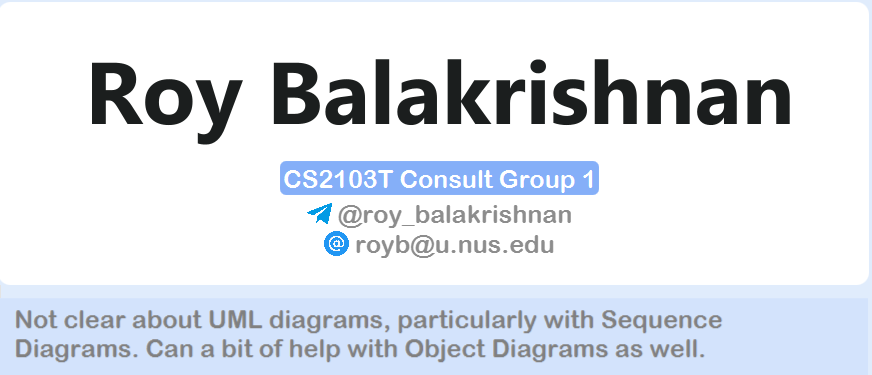
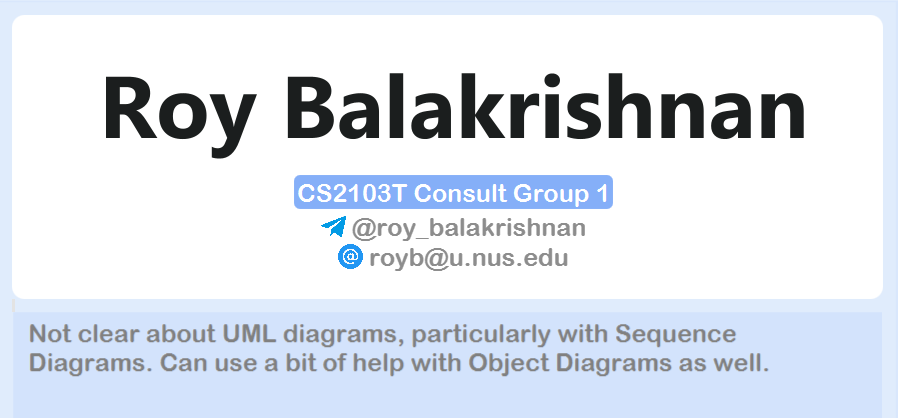
Update UG Typoes, images, and formatting

Changed region(s): [[0.0, 0.0, 1.0, 0.968], [0.0929, 0.1467, 0.9289, 0.3813], [0.4954, 0.1467, 0.5264, 0.176]]

diff --git a/docs/UserGuide.md b/docs/UserGuide.md
@@ -19,9 +19,9 @@ section of the user guide.
 
 ## How to use
 
-This user guide will bring you through how to quickly start using our application through the [Quick Start](#quick-start) section, while also serving as a reference to more experienced users in the [Feature List](#feature-list) section, where notes and tips on how best to make use of our application will also be given.
+This user guide will bring you through **how to quickly start using our application through the [Quick Start](#quick-start) section**, while also serving as a **reference to more experienced users in the [Feature List](#feature-list) section**, where notes and tips on how best to make use of our application will also be given.
 
-If you face any difficult while following the user guide, do refer to the FAQ section to see if your issue has been addressed there. If the solution provided or your query has yet to be answered in the FAQ section, feel free to reach out to our team lead at [e0559779@u.nus.edu](mailto:e0559779@u.nus.edu) through email.
+**If you face any difficult while following the user guide, do refer to the [FAQ section](#faq)** to see if your issue has been addressed there. If the solution provided or your query has yet to be answered in the FAQ section, feel free to reach out to our team lead, Erin Ong, at [e0559779@u.nus.edu](mailto:e0559779@u.nus.edu) through email.
 
 --------------------------------------------------------------------------------------------------------------------
 
@@ -36,7 +36,7 @@ If you face any difficult while following the user guide, do refer to the FAQ se
 4. Double-click the file to start the app. The GUI similar to the below should appear in a few seconds. Note how the app contains some sample data.<br><br>
    ![Ui](images/Ui.png)
 
-5. Type the command in the command box and press Enter to execute it. e.g. typing **`help`** and pressing Enter will open the help window.<br>
+5. Type the command in the command box and press Enter to execute it. e.g. typing **`help`** and pressing Enter will open the help window.<br><br>
    Some example commands you can try:
 
     * **`list`** : Lists all students currently stored.
@@ -73,12 +73,12 @@ Term | Definition
 
 These icons will appear within coloured boxes to indicate
 
-Icon | Meaning | Box colour
---------|------------------|----
-:information_source:**Note**|This icon serves to give an additional note or remark about the current feature|Blue
-:bulb:**Tip**|This icon serves to give a quick recommendation about how to use the feature in the most beneficial way|Blue
-:exclamation:**Caution**|This icon serves to give a note on behaviour of the application that could be unexpected to you|Yellow 
-:warning:**Warning**|This icon serves to warn against using a feature in some unintended manner| Yellow
+&nbsp; &nbsp; &nbsp; Icon &nbsp; &nbsp; &nbsp; | Meaning | Box colour
+------------|------------------|----
+ :information_source:**Note** |This icon serves to give an additional note or remark about the current feature|Blue
+ :bulb:**Tip** |This icon serves to give a quick recommendation about how to use the feature in the most beneficial way|Blue
+ :exclamation:**Caution** |This icon serves to give a note on behaviour of the application that could be unexpected to you|Yellow 
+ :warning:**Warning** |This icon serves to warn against using a feature in some unintended manner| Yellow
 
 
 
@@ -115,7 +115,7 @@ Icon | Meaning | Box colour
 
 #### Viewing help : `help`
 
-Shows a message explaining how to access the user guide.
+Displays a pop-up message explaining how to access the user guide as shown below:
 
 ![help message](images/helpMessage.png)
 
@@ -123,19 +123,19 @@ Format: `help`
 
 #### Clearing all entries : `clear`
 
-Clears all entries from CSBook.
+Clears all students, groups and their associated data from CSBook
 
 Format: `clear`
 
 #### Encrypting the data file: `encrypt`
 
-Encrypts the CSBook data file.
+Encrypts the CSBook data file into a non-human-readable format to protect the data from access by undesirable parties.
 
 Format: `encrypt`
 
 #### Decrypting the data file: `decrypt`
 
-Decrypts the CSBook data file.
+Decrypts the CSBook data file back into a human-readable format from its previously encrypted state.
 
 Format: `decrypt`
 
@@ -184,6 +184,7 @@ Examples:
 * `add n/Jia Xian t/@albino_monkii e/albinomonkey@u.nus.edu g/CS2103T`
 * `add n/Jun Wei t/@albino_api e/albinoape@u.nus.edu g/CS2101`
 
+Result of `add n/Jun Wei t/@albino_api e/albinoape@u.nus.edu g/CS2101`:
   ![result for 'add n/Jia Xian t/@albino_monkii e/albinomonkey@u.nus.edu g/CS2103T'](images/addJunWeiResult.png)
 
 #### Listing all students : `list`
@@ -226,6 +227,7 @@ Examples:
 * `find oliveiro` returns `Charlotte Oliveiro` and `Edgar Oliveiro`
 * `find alex david` returns `Alex Yeoh`, `David Li`<br>
 
+Result of `find alex david`:
   ![result for 'find alex david'](images/findAlexDavidResult.png)
 
 #### View student: `viewstudent`
@@ -243,6 +245,7 @@ Examples:
 * `viewstudent David Li` returns `David Li`
 * `viewstudent Irfan Ibrahim` returns `Irfan Ibrahim`<br>
 
+Result of `viewstudent Irfan Ibrahim`:
   ![result for 'viewstudent Irfan Ibrahim'](images/viewStudentIrfanIbrahimResult.png)
 
 #### Adding an assessment: `addassessment`
@@ -265,6 +268,7 @@ Examples:
 * `addassessment 1 a/Finals s/13/30`
 * `addassessment 6 a/Participation s/3/5`<br>
 
+Result of `addassessment 6 a/Participation s/3/5`:
   ![result for 'addassessment 6 a/Participation s/3/5'](images/addAssessmentParticipationResult.png)
 
 #### Deleting an assessment: `deleteassessment`
@@ -293,9 +297,10 @@ Format: `note n/NAME no/NOTE`
 
 Examples:
 * `note n/Charlotte Oliveiro no/Great with presentations` will replace the existing note `Very convincing presentations` with `Great with presentations`
-* `note n/Roy Balakrishnan no/Not clear about UML diagrams, particularly with Sequence Diagrams. Can a bit of help with Object Diagrams as well.` will add a note `Not clear about UML diagrams, particularly with Sequence Diagrams. Can a bit of help with Object Diagrams as well.`<br>
+* `note n/Roy Balakrishnan no/Not clear about UML diagrams, particularly with Sequence Diagrams. Can use a bit of help with Object Diagrams as well.` will add a note `Not clear about UML diagrams, particularly with Sequence Diagrams. Can use a bit of help with Object Diagrams as well.`<br>
 
-  ![result for 'note n/Roy Balakrishnan no/Not clear about UML diagrams, particularly with Sequence Diagrams. Can a bit of help with Object Diagrams as well.'](images/noteRoyUmlResult.png)
+Result of the above `note n/Roy Balakrishnan no/Not clear about...`:
+  ![result for 'note n/Roy Balakrishnan no/Not clear about UML diagrams, particularly with Sequence Diagrams. Can use a bit of help with Object Diagrams as well.'](images/noteRoyUmlResult.png)
 
 #### Deleting a student : `delete`
 
@@ -335,6 +340,8 @@ Examples:
 * `addgroup g/CS2100 d/Computer Organisation` creates a group called `CS2103T` and the description `Computer Organisation`
 that students can be added into.<br>
 
+
+  Result of `addgroup g/CS2100 d/Computer Organisation`:
   ![result for `addgroup g/CS2100 d/Computer Organisation`](images/addGroupCS2100Result.png)
 
 
@@ -347,6 +354,7 @@ Format: `viewgroup g/GROUPNAME`
 Examples:
 * `viewgroup CS2103T` displays the students in `CS2103T`.
 
+Result of `viewgroup CS2103T`:
   ![result for `viewgroup CS2103T`](images/viewGroupCS2103T.png)
 
 #### Changing the group of a student: `changegroup`
